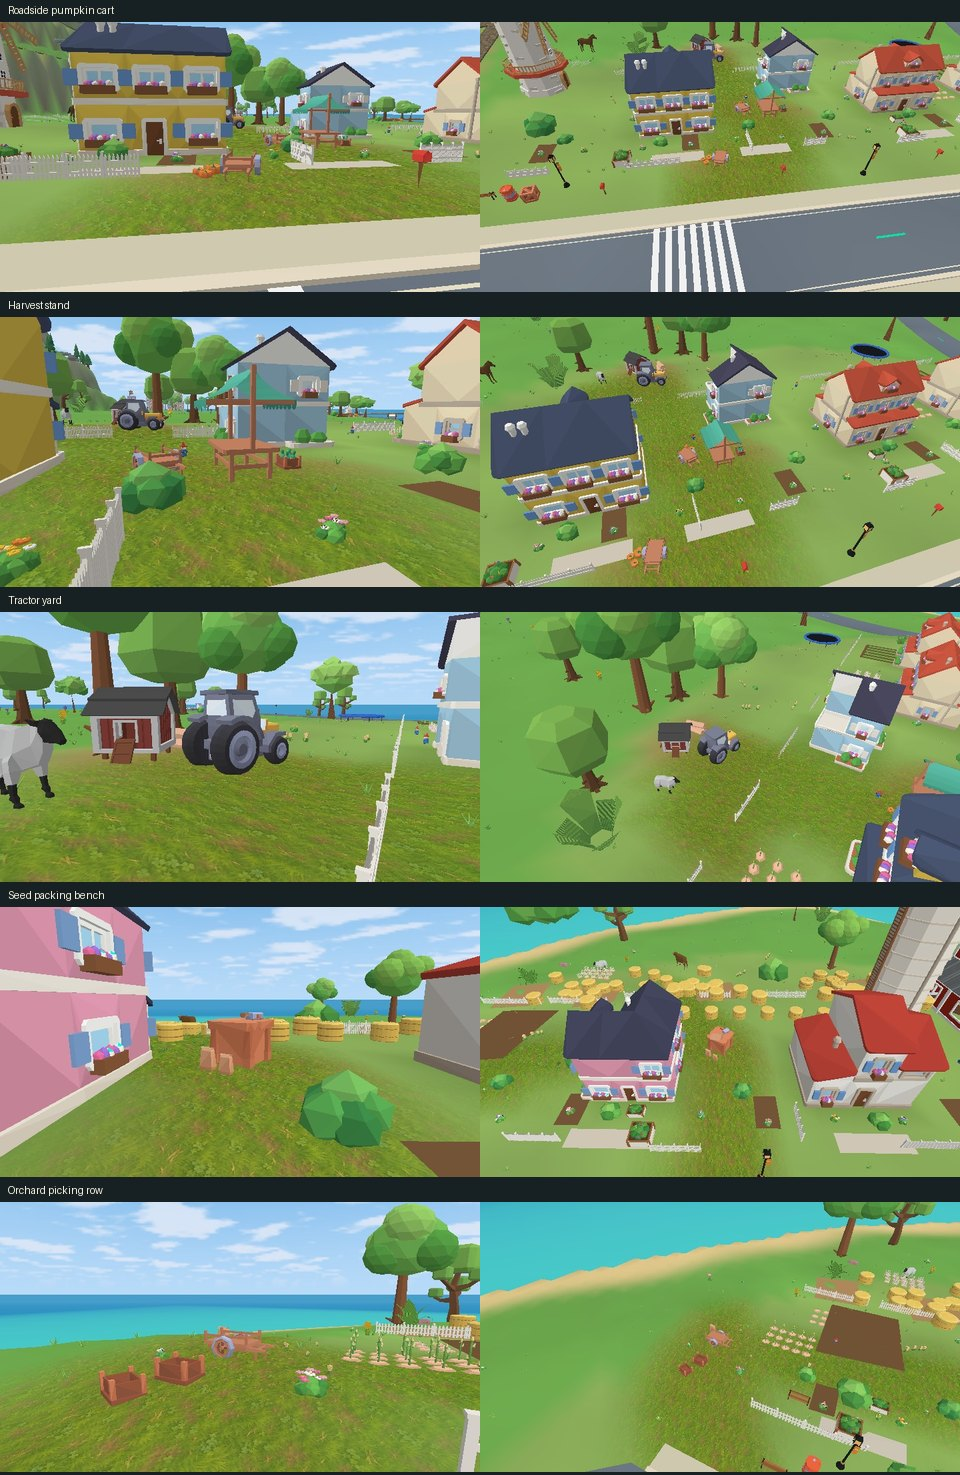
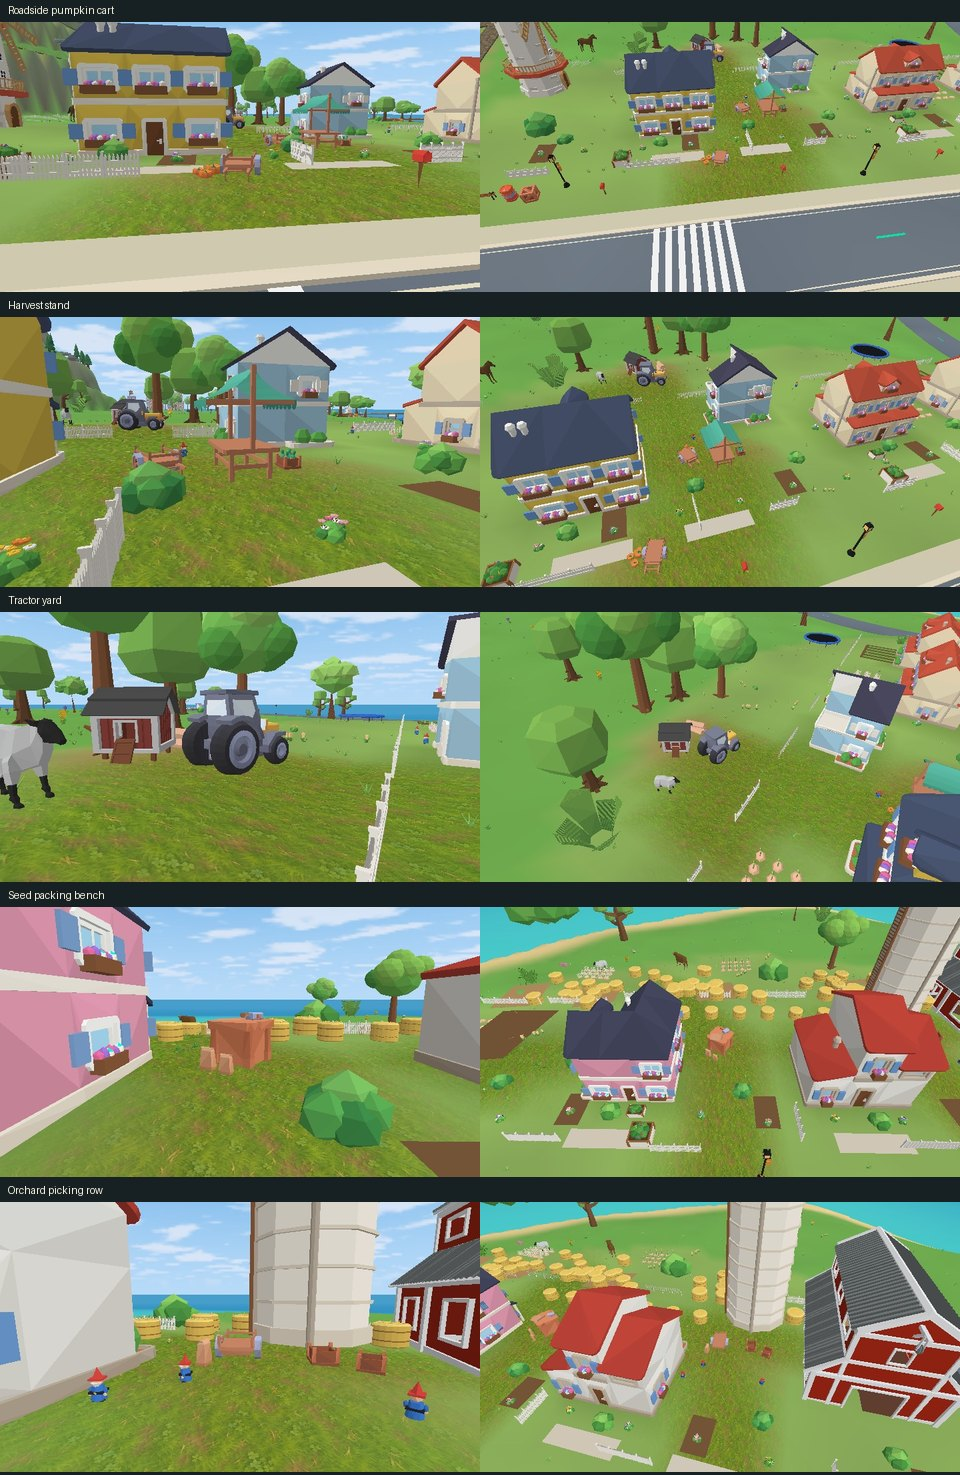
Keep the mowing course and crane stacking pad clear of scenery

Changed region(s): [[0.0, 0.8108, 1.0, 0.998], [0.9375, 0.6861, 1.0, 0.7797], [0.4062, 0.6861, 0.4375, 0.7485]]

diff --git a/src/world/district-sets.ts b/src/world/district-sets.ts
@@ -126,7 +126,7 @@ const layouts: Layout[] = [
   },
 
   {
-    district: 'hoofington', name: 'Orchard picking row', x: -17.693, z: 43.5085, degrees: -14, items: [
+    district: 'hoofington', name: 'Orchard picking row', x: -26.0186, z: -16.4314, degrees: 85, items: [
       ['harvestCart', 0, 0, 2.8, 12], ['orchardCrate', 3.4, -.4, 1.25, 14], ['orchardCrate', 5.15, -.1, 1.15, -8],
       ['seedSack', -.8, 1.8, .95]]
   },
@@ -135,7 +135,7 @@ const layouts: Layout[] = [
       ['shoreOffice', 0, 0, 4.8, 180], ['canoe', 4.3, .6, 4.5, 12], ['picnicBench', -3.9, 1.4, 2.3, 80]]
   },
   {
-    district: 'crane-yard', name: 'Cable laydown bay', x: 13.0308, z: -25.4371, degrees: 87, items: [
+    district: 'crane-yard', name: 'Cable laydown bay', x: 10.652, z: 13.111, degrees: 52, items: [
       ['cableDrum', 0, 0, 2.05], ['cableDrum', 2.25, .2, 1.5]]
   },
   {
@@ -282,6 +282,12 @@ export function districtSets(island: IslandData): DistrictSet[] {
         const y = gridSample(island, px, pz), bottom = { x: px, y, z: pz };
         const p = { model, bottom, length: span * scale, yaw: angle + yaw * Math.PI / 180 };
         const f = footprint(p), radius = Math.hypot(f.halfX, f.halfZ);
+        // Keep the south mowing lawn and the crane's active crate rack free,
+        // including space for the goat to circle and tow a crate onto the pad.
+        const localX = (px - centre.x) / scale, localZ = (pz - centre.z) / scale, margin = radius / scale;
+        if (site.name === 'Orchard picking row' && localZ + margin > 31) return;
+        if (site.name === 'Cable laydown bay' && localX + margin > 6 && localX - margin < 25 &&
+          localZ + margin > -33 && localZ - margin < -16) return;
         if (zoneAt(island, px, pz) !== site.district || y < island.seaLevel + .38 * scale ||
           localBlocks.some(b => y < b.top + .35 * scale && y + span * scale > b.bottom - .35 * scale && clearance(b, px, pz) < radius + .35 * scale) ||
           safe.some(q => Math.hypot(q.x - px, q.z - pz) < radius + 2.5 * scale) ||

diff --git a/src/world/district-ground.ts b/src/world/district-ground.ts
@@ -10,7 +10,7 @@ interface Finish { tile: number; strength: number; swaths: Swath[]; }
 const finishes: Record<PoiId, Finish> = {
   hoofington: {
     tile: 5.1, strength: .76, swaths: [
-      [-20, 29, 43, 12, 81], [-29, 7, 36, 11, -27], [28, -11, 36, 15, -13], [-14, 43, 27, 12, -12]]
+      [-20, 29, 43, 12, 81], [-29, 7, 36, 11, -27], [-26, -14, 29, 12, 76], [28, -11, 36, 15, -13], [-14, 43, 27, 12, -12]]
   },
   'baa-ardwalk': {
     tile: 4.7, strength: .94, swaths: [
@@ -193,4 +193,3 @@ export function buildDistrictGround(island: IslandData) {
     dispose() { disposed = true; for (const map of maps.values()) map.dispose(); }
   };
 }
-

diff --git a/src/world/habitat-beds.ts b/src/world/habitat-beds.ts
@@ -107,7 +107,7 @@ export function planHabitatBeds(island: IslandData): Beds {
   }
   // Low kit plants and loose stone follow specific shoulders, leaving the travel side open.
   const verges: [string, number, number, number, number, BedModel, number][] = [
-    ['hoofington', -17, 40, 14, -.32, 'flower_yellowA', .34],
+    ['hoofington', -28, -12, 14, 1.28, 'flower_yellowA', .34],
     ['hoofington', -24, 12, 19, 1.29, 'grass_leafsLarge', .39],
     ['baa-ardwalk', -17, -16, 21, .12, 'grass_leafsLarge', .49],
     ['baa-ardwalk', 6, -20, 24, -.26, 'grass_leafsLarge', .42],

diff --git a/docs/art/qa/district-ground/README.md b/docs/art/qa/district-ground/README.md
@@ -4,9 +4,9 @@ The 64 stills below show 32 sites on the production island seed, `billy-isle`. E
 
 | District and stills | Changes checked in the scene |
 | --- | --- |
-| [Hoofington](hoofington.jpg) | Grass, clover and straw lead from the gates to the harvest stand, tractor, seed bench and picking cart. The orchard crates are timber and sit clear of the crop rows. |
+| [Hoofington](hoofington.jpg) | Grass, clover and straw lead from the gates to the harvest stand, tractor, seed bench and picking cart. The timber crates and cart stand by the silo. The southern lawn stays open for the Mow-Down course. |
 | [Baa-ardwalk](baa-ardwalk.jpg) | Rippled shell sand joins the boardwalk kiosks, parasols and canoe hire hut. Dune grass and low stones line the edges. The information window faces the approach. |
-| [Crane Yard](crane-yard.jpg) | Weathered concrete covers the 80 × 72 m apron. The cable drums occupy an open bay beside the crane. The loading marks and puddles remain distinct. Subdividing each slab along the terrain faces removed the exposed ground polygons visible in the first pass. |
+| [Crane Yard](crane-yard.jpg) | Weathered concrete covers the 80 × 72 m apron. The cable drums occupy the loader side of the yard, across the apron from the Stack-Up crate rack. The loading marks and puddles remain distinct. Subdividing each slab along the terrain faces removed the exposed ground polygons visible in the first pass. |
 | [Downtown Bleatsville](downtown-bleatsville.jpg) | Limestone setts extend from the street market through the pocket garden and across the service courts. The raised shop forecourts and sidewalks carry the same stone scale. Planters frame the seating and leave the road edge open. |
 | [Mt. Gigga](mt-gigga.jpg) | Slate and lichen follow the bivouac, survey cache, rest shelf and summit trail marker. The loose stone shoulders taper toward the steeper cliff faces. The trail embankments have their own vertical texture coordinates. |
 | [Whispering Pines](whispering-pines.jpg) | Fir needles and humus tie the canoe landing, camp, woodcutting bench and timber landing to the forest floor. Ferns, mushrooms and stacked logs mark the clearing edges. |
